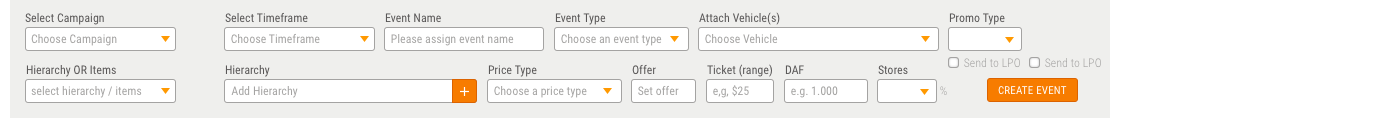
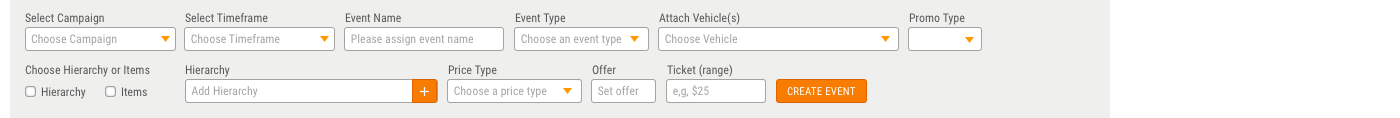
new checkboxes and header in table

diff --git a/js/min/app-min.js b/js/min/app-min.js
@@ -1,1 +1,1 @@
-$(document).ready(function(){function e(){for(var e=$(".row-container "),i=60,s=15,n=12,a=0;i>a;a++){var o=Math.floor(10*Math.random()),t="img/events/e-"+o+".png",d=$('<div class="event-wrapper"></div>').appendTo(e),l=$('<div class="event-container"></div>').appendTo(d),c=$('<div class="item-container hide-section"></div>').appendTo(d),r=$('<div class="cluster-container hide-section"></div>').appendTo(d);l.append('<img src="'+t+'">'),l.append('<span type="vehicles" class="view-modal-btn vehicle-btn">View All</span>'),l.append('<i class="icon ion-android-add-circle toggle-items"></i>'),l.append('<i class="icon ion-android-add-circle toggle-clusters"></i>');for(var h=0;s>h;h++){var p=Math.floor(10*Math.random()),g="img/items/i-"+p+".png";c.append('<img src="'+g+'">')}for(var v=0;n>v;v++){var m=Math.floor(10*Math.random()),w="img/clusters/c-"+m+".png";r.append('<img src="'+w+'">')}}}var i=$(".collapse-btn"),s=$(".collapse-content");i.click(function(){console.log("go"),s.toggleClass("hide-section")}),e(),$(".table-wrapper").on("scroll",function(e){var i=e.target.scrollLeft;$("img.table-header").css("left",-1*i+"px")}),$(".row-container").delegate(".view-modal-btn","click",function(){var e=$(this).attr("type");"vehicles"===e&&window.alert("Opens modal that shows all "+e)}),$(".row-container").delegate(".ion-android-add-circle.toggle-clusters","click",function(){var e=$(this).parents(".event-wrapper"),i=e.find(".item-container"),s=e.find(".cluster-container"),n=e.find(".ion-android-add-circle.toggle-items");$(this).hasClass("showing-children")?(s.addClass("hide-section"),$(this).removeClass("showing-children")):(s.removeClass("hide-section"),$(this).addClass("showing-children"),e.addClass("clusters-open"),e.hasClass("items-open")&&(i.addClass("hide-section"),n.removeClass("showing-children")))}),$(".row-container").delegate(".ion-android-add-circle.toggle-items","click",function(){var e=$(this).parents(".event-wrapper"),i=e.find(".item-container"),s=e.find(".cluster-container"),n=e.find(".ion-android-add-circle.toggle-clusters");$(this).hasClass("showing-children")?(i.addClass("hide-section"),$(this).removeClass("showing-children"),console.log("log")):(console.log("asd"),i.removeClass("hide-section"),$(this).addClass("showing-children"),e.addClass("items-open"),e.hasClass("clusters-open")&&(s.addClass("hide-section"),n.removeClass("showing-children")))})});
+$(document).ready(function(){function e(){for(var e=$(".row-container "),n=60,i=15,s=12,a=0;n>a;a++){var o=Math.floor(10*Math.random()),t="img/events/e-"+o+".png",c=$('<div class="event-wrapper"></div>').appendTo(e),d=$('<div class="event-container"></div>').appendTo(c),l=$('<div class="item-container hide-section"></div>').appendTo(c),r=$('<div class="cluster-container hide-section"></div>').appendTo(c);d.append('<img src="'+t+'">'),d.append('<span type="vehicles" class="view-modal-btn vehicle-btn">View All</span>'),d.append('<i class="icon ion-android-add-circle toggle-items"></i>'),d.append('<i class="icon ion-android-add-circle toggle-clusters"></i>'),d.append('<input type="checkbox" class="toggle-ready">');for(var h=0;i>h;h++){var p=Math.floor(10*Math.random()),g="img/items/i-"+p+".png";l.append('<img src="'+g+'">')}for(var v=0;s>v;v++){var m=Math.floor(10*Math.random()),f="img/clusters/c-"+m+".png";r.append('<img src="'+f+'">')}}}var n=$(".collapse-btn"),i=$(".collapse-content");n.click(function(){console.log("go"),i.toggleClass("hide-section")}),e(),$(".table-wrapper").on("scroll",function(e){var n=e.target.scrollLeft;$("img.table-header").css("left",-1*n+"px")}),$(".row-container").delegate(".view-modal-btn","click",function(){var e=$(this).attr("type");"vehicles"===e&&window.alert("Opens modal that shows all "+e)}),$(".row-container").delegate(".ion-android-add-circle.toggle-clusters","click",function(){var e=$(this).parents(".event-wrapper"),n=e.find(".item-container"),i=e.find(".cluster-container"),s=e.find(".ion-android-add-circle.toggle-items");$(this).hasClass("showing-children")?(i.addClass("hide-section"),$(this).removeClass("showing-children")):(i.removeClass("hide-section"),$(this).addClass("showing-children"),e.addClass("clusters-open"),e.hasClass("items-open")&&(n.addClass("hide-section"),s.removeClass("showing-children")))}),$(".row-container").delegate(".ion-android-add-circle.toggle-items","click",function(){var e=$(this).parents(".event-wrapper"),n=e.find(".item-container"),i=e.find(".cluster-container"),s=e.find(".ion-android-add-circle.toggle-clusters");$(this).hasClass("showing-children")?(n.addClass("hide-section"),$(this).removeClass("showing-children"),console.log("log")):(console.log("asd"),n.removeClass("hide-section"),$(this).addClass("showing-children"),e.addClass("items-open"),e.hasClass("clusters-open")&&(i.addClass("hide-section"),s.removeClass("showing-children")))}),$(".row-container").delegate(".toggle-ready","click",function(){var e=$(this).prop("checked"),n=$(this).parents(".row-container").find(".toggle-ready");n.each(function(){var e=$(this).prop("checked");console.log(e),e===!0?nextBtn.addClass("active-btn"):nextBtn.removeClass("active-btn")})})});

diff --git a/js/app.js b/js/app.js
@@ -36,6 +36,7 @@ $(document).ready(function(){
       //eventContainer.append('<span type="clusters" class="view-modal-btn clusters-btn">Show Clusters</span>');
       eventContainer.append('<i class="icon ion-android-add-circle toggle-items"></i>');
       eventContainer.append('<i class="icon ion-android-add-circle toggle-clusters"></i>');
+      eventContainer.append('<input type="checkbox" class="toggle-ready">');
       
 
       // add item rows
@@ -126,6 +127,25 @@ $(document).ready(function(){
     }
     
     
+  });
+
+  // click on input toggle
+
+  $('.row-container').delegate('.toggle-ready', 'click', function() {
+    var val = $(this).prop( "checked");
+    var others = $(this).parents('.row-container').find('.toggle-ready');
+    others.each(function() {
+      var status = $(this).prop( "checked");
+      console.log(status)
+      if( status === true){
+        nextBtn.addClass('active-btn');
+      } else {
+        nextBtn.removeClass('active-btn');
+      }
+    });
+
+    //console.log(others);
+
   });
   
 });

diff --git a/css/style.css b/css/style.css
@@ -24,7 +24,7 @@ body {
 
 body {
   user-select: none;
-  -mox-user-select: none;
+  -moz-user-select: none;
   -webkit-user-select: none; }
 
 @media (min-width: 800px) {
@@ -137,3 +137,9 @@ img {
     left: 968px; }
   .event-container .toggle-clusters {
     left: 1193px; }
+
+.toggle-ready {
+  position: absolute;
+  top: 4px;
+  left: -1px;
+  transform: scale(0.8); }

diff --git a/style.scss b/style.scss
@@ -218,3 +218,11 @@ img{
     left:1193px;
   }
 }
+
+
+.toggle-ready{
+  position: absolute;
+  top: 4px;
+  left: -1px;
+  transform:scale(0.8);
+}
